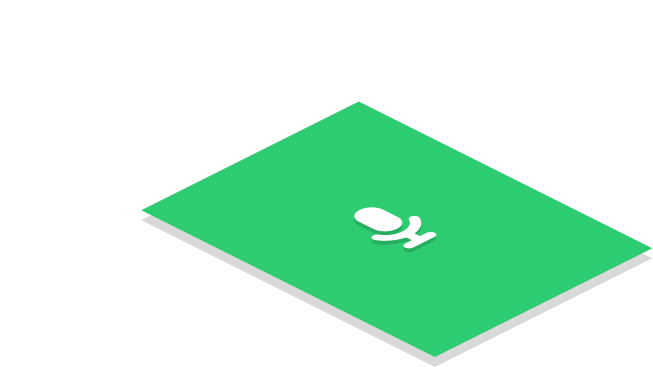
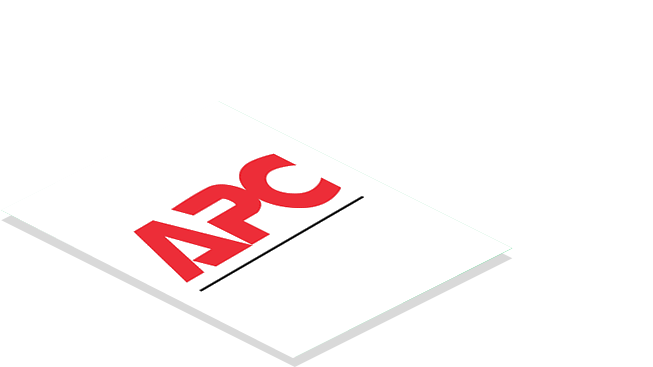
1.9
imgs2

diff --git a/SF_SAMPLE__iDqjw/index.html b/SF_SAMPLE__iDqjw/index.html
@@ -102,11 +102,20 @@
                     <img src="startup/common-files/img/content/board-5.png" width="952" height="267" alt="">
                     <img src="startup/common-files/img/content/board-6.png" width="512" height="518" alt="">
                     <img src="startup/common-files/img/content/board-7.png" width="512" height="488" alt="">
+                    <img src="startup/common-files/img/content/board-9.png" width="834" height="713" alt="">
+                    <img src="startup/common-files/img/content/board-8.png" width="500" height="713" alt="">
+                    
+                    <!--<img src="startup/common-files/img/content/board-10.png" width="974" height="533" alt="">
+                    <img src="startup/common-files/img/content/board-11.png" width="512" height="549" alt="">
+                    <img src="startup/common-files/img/content/board-12.png" width="653" height="367" alt="">
+                    <img src="startup/common-files/img/content/board-13.png" width="952" height="267" alt="">
+                    <img src="startup/common-files/img/content/board-14.png" width="512" height="518" alt="">
+                    <img src="startup/common-files/img/content/board-15.png" width="512" height="488" alt="">
                 </div>
-                 <div class="description">
+                 <!--<div class="description">
                     <h6>Smart Layers</h6>
                     Just put the image with your App screen inside Smart Layer and get the photo.
-                </div>
+                </div>-->
             </div>
         </div>
     </div>
@@ -472,6 +481,7 @@ Los adelantos de las comunicaciones móviles son un factor clave a la hora de am
             <script src="startup/common-files/js/jquery.bxslider.min.js"></script>
             <script src="startup/common-files/js/jquery.scrollTo-1.4.3.1-min.js"></script>
             <script src="startup/common-files/js/jquery.sharrre.min.js"></script>
+            <script src="startup/common-files/js/jquery.parallax.min.js"></script>
             <script src="startup/flat-ui/js/bootstrap.min.js"></script>
             <script src="startup/common-files/js/masonry.pkgd.min.js"></script>
             <script src="startup/common-files/js/modernizr.custom.js"></script>
@@ -484,6 +494,13 @@ Los adelantos de las comunicaciones móviles son un factor clave a la hora de am
             <script src="startup/common-files/js/jquery.backgroundvideo.min.js"></script>
             <script src="startup/common-files/js/froogaloop.min.js"></script>
             <script src="startup/common-files/js/startup-kit.js"></script>
+            <script>
+            (function($) {
+                $(".content-23").each(function() {
+                $(this).parallax("50%",0.3, true);
+                })
+            }(jquery));
+            </script>
            
         </div>
     </body>
